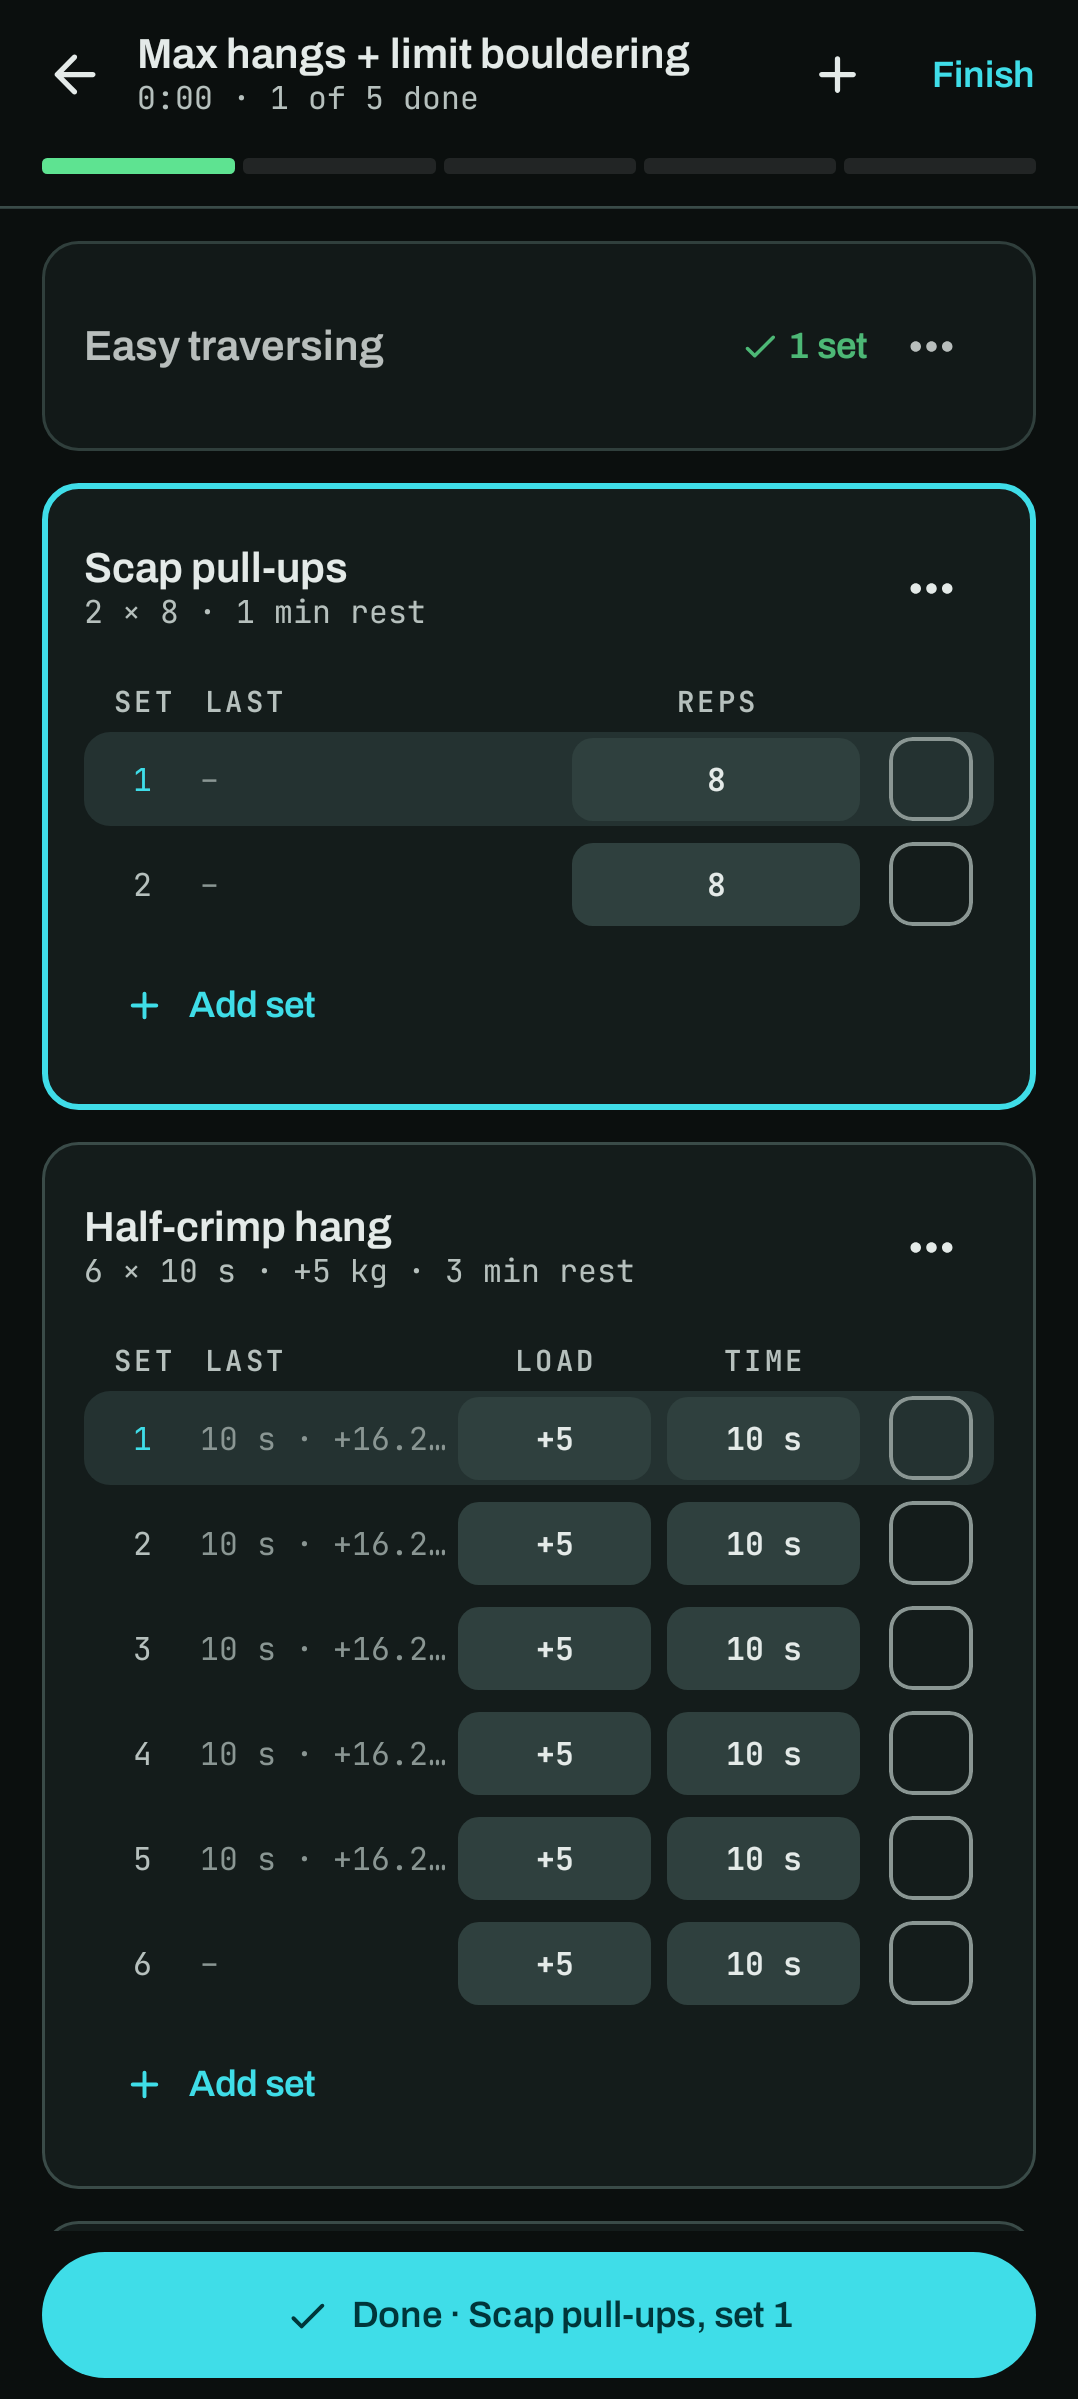
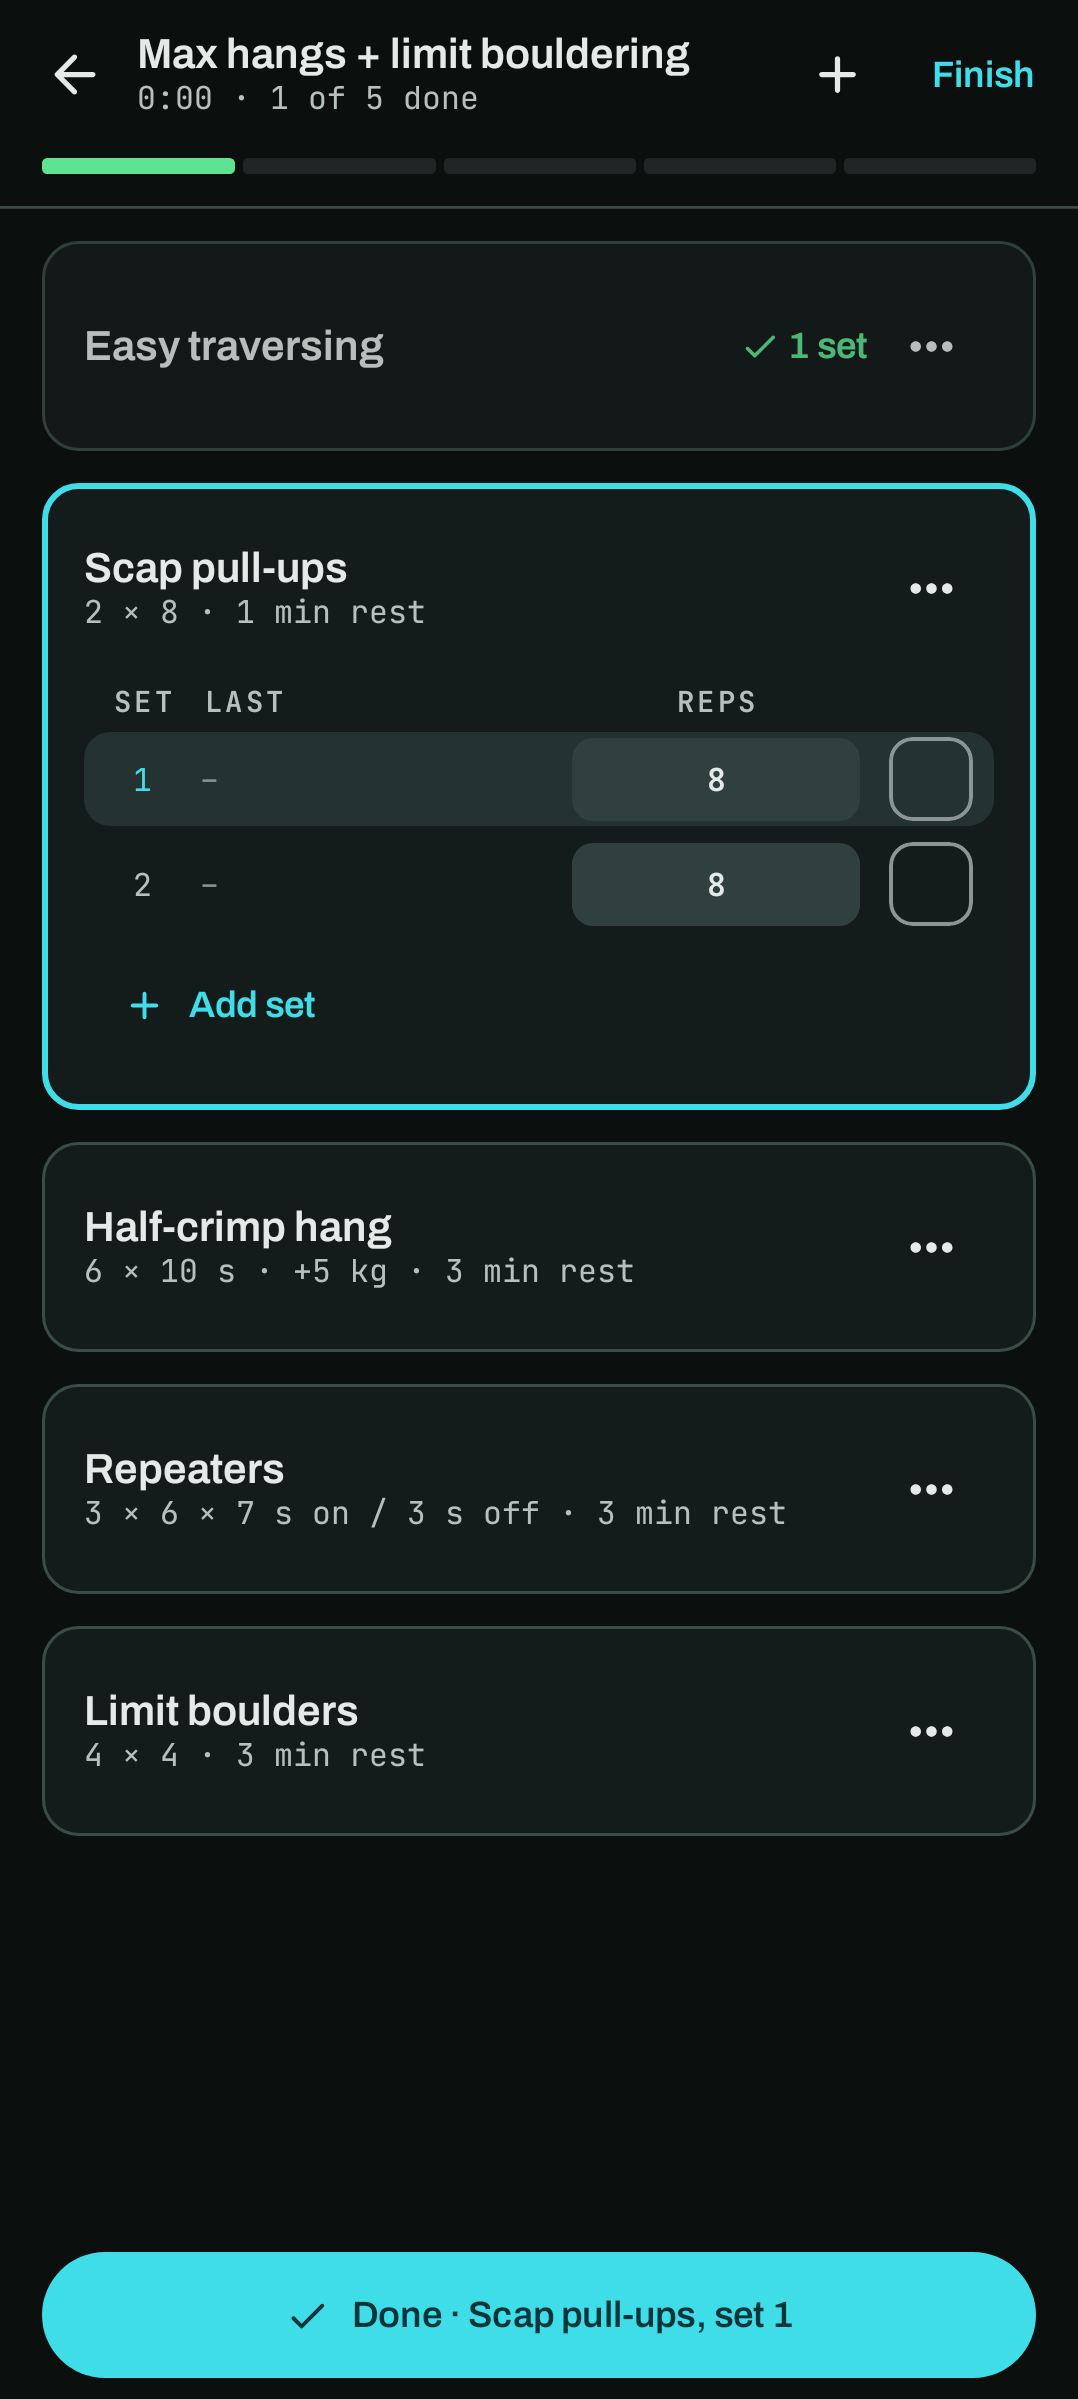
Session: an exercise added while climbing becomes the current block; store screenshot for the new session

diff --git a/app/src/main/java/com/hardtekpt/crux/ui/session/SessionScreen.kt b/app/src/main/java/com/hardtekpt/crux/ui/session/SessionScreen.kt
@@ -703,6 +703,8 @@ fun SessionScreen(
     // The big timer view opens on a tap of the dock and stays big for the next rest, until made small.
     var big by rememberSaveable { mutableStateOf(bigTimer) }
     val next = viewModel.nextUp(current)
+    // Climbing stays the current block until a set is ticked, an exercise is added or "Back to sets".
+    var backToSets by rememberSaveable(current.climbs.size, playlist != null) { mutableStateOf(false) }
     val runningTimer = timer
     val runningRest = rest
     val done = current.items.count { it.finished }
@@ -742,7 +744,6 @@ fun SessionScreen(
         // "Back to sets" says otherwise.
         val hasPlaylist = playlist != null
         val blocks = current.blocks(hasPlaylist)
-        var backToSets by rememberSaveable(current.climbs.size, hasPlaylist) { mutableStateOf(false) }
         val climbingCurrent = current.climbingNow(hasPlaylist) && !backToSets && runningTimer == null
         val currentExerciseId = next?.first?.id.takeIf { !climbingCurrent }
         // The rail: a segment per block, filling as sets go in (green once done); climbing fills
@@ -1051,6 +1052,7 @@ fun SessionScreen(
             library = library,
             onPick = {
                 viewModel.addExercise(it)
+                backToSets = true
                 picking = false
             },
             onDismiss = { picking = false },
